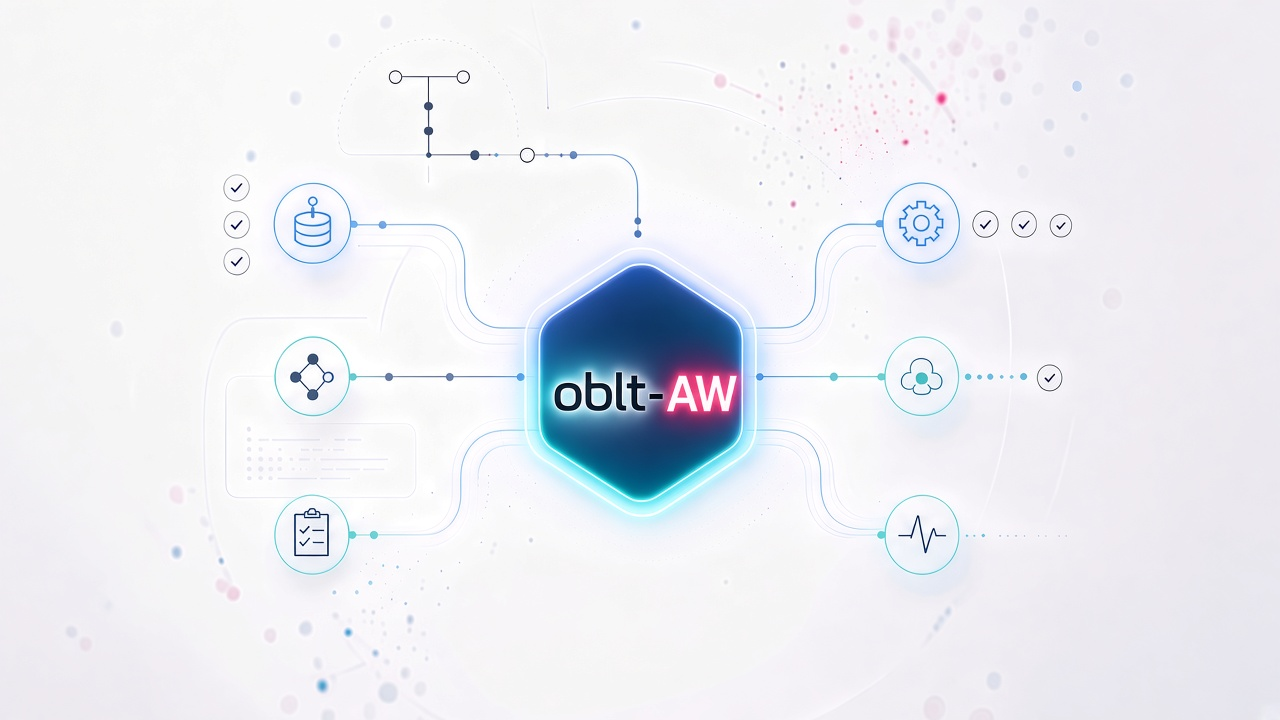
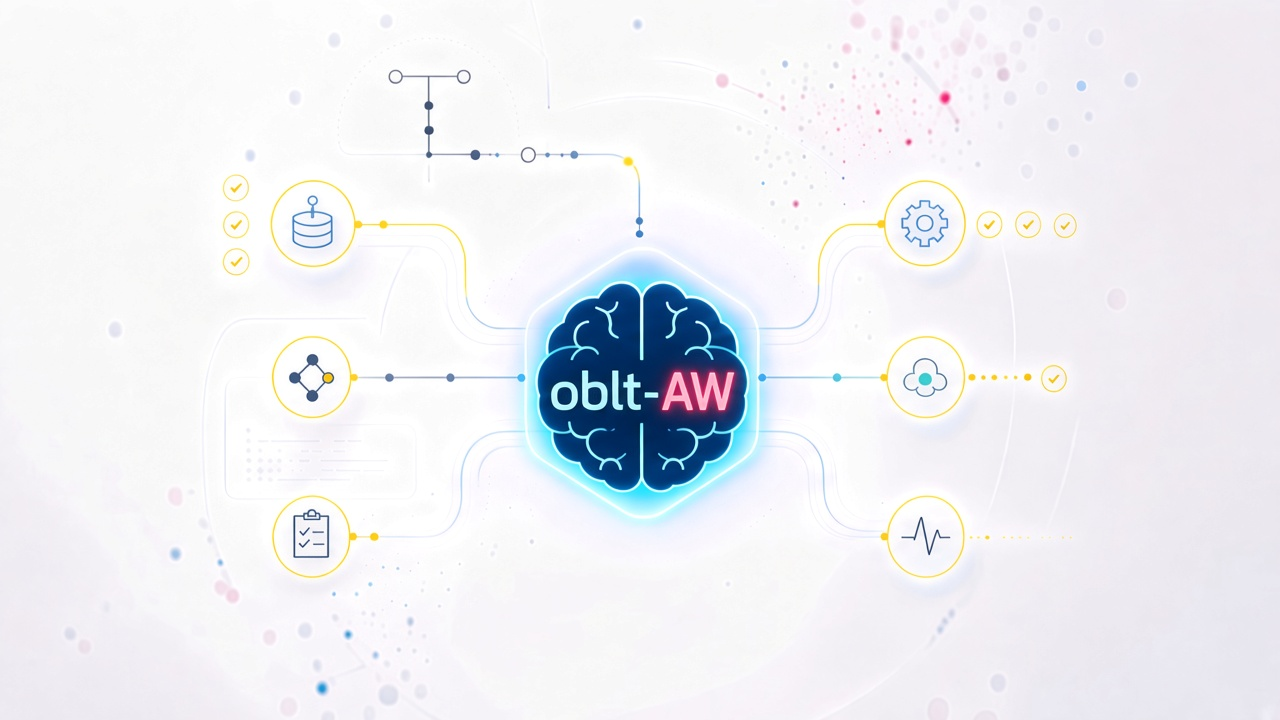
docs: refresh oblt-aw emblem and show it on the README.

diff --git a/README.md b/README.md
@@ -1,5 +1,9 @@
 # Introducing oblt-aw — a framework for agentic workflows
 
+<p align="center">
+  <img src="docs/images/oblt-aw-framework-emblem.jpg" alt="oblt-aw — opinionated agentic framework for Elastic" width="720" />
+</p>
+
 ## What is oblt-aw, and what problems does it solve?
 
 **oblt-aw** ([elastic/oblt-aw](https://github.com/elastic/oblt-aw)) is an opinionated agentic framework for [GitHub Agentic Workflows](https://github.github.com/gh-aw/): reusable routes, thin clients [distributed automatically](docs/operations/distribute-client-workflow.md) to repos, plus a **control plane** for configuration and gating (Control Plane dashboard, opt-in/opt-out, audit, and prelude verification).
